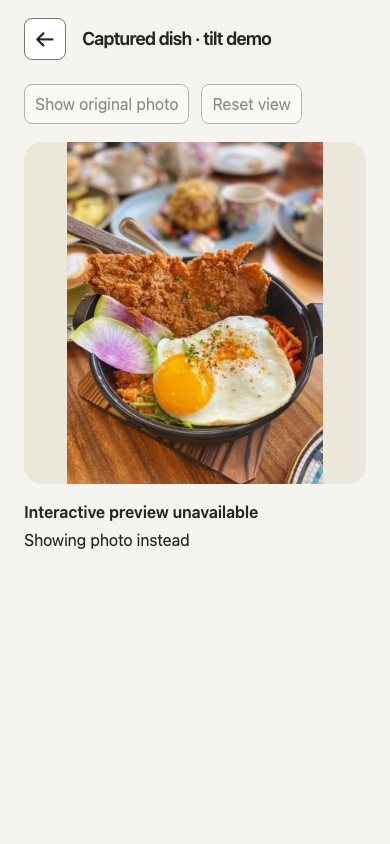
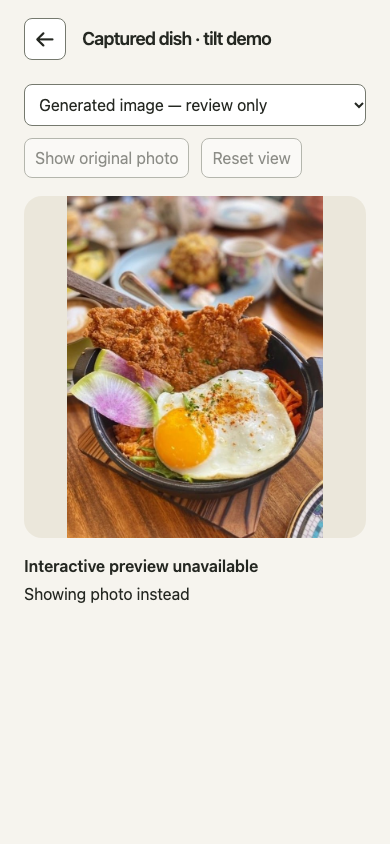
Record original-image evidence and isolate demo query

diff --git a/frontend/diner/src/menu/portionPreview.ts b/frontend/diner/src/menu/portionPreview.ts
@@ -40,7 +40,9 @@ export function bindPortionPreview(container: HTMLElement, dish: CompleteDish): 
   instructions.id = `portion-instructions-${key}`;
   let showOriginal = false;
   let visual: 'cutout' | 'generated' =
-    new URLSearchParams(location.search).get('demoVisual') === 'cutout' ? 'cutout' : 'generated';
+    import.meta.env.DEV && new URLSearchParams(location.search).get('demoVisual') === 'cutout'
+      ? 'cutout'
+      : 'generated';
   let visualSelect: HTMLSelectElement | undefined;
   const reduced = matchMedia('(prefers-reduced-motion: reduce)');
   let active = false;

diff --git a/qa-reports/diner-portion-preview/README.md b/qa-reports/diner-portion-preview/README.md
@@ -10,6 +10,21 @@ View Portion shell. Four state categories and Back/retry navigation are preserve
 | Original-photo fallback | Failed / retry |
 | ![Photo fallback](fallback.png) | ![Failed](failed.png) |
 
+## Exact original image correction
+
+The earlier demo re-encoded the cutout and omitted the generated presentation.
+The local selector now uses the exact prior PNGs, with byte hashes checked in the browser.
+Generated presentation is the default; Original cutout is selectable above the stage.
+Both remain needs-review and publication-ineligible, excluded from production builds.
+
+| Generated presentation | Original cutout |
+| --- | --- |
+| ![Generated](generated.png) | ![Cutout](cutout.png) |
+
+Latest correction checks: PASS `pnpm exec playwright test --config playwright.portion.config.ts --workers=2`
+(52/52); PASS `pnpm verify lint typecheck build`; PASS exact-asset and selector exclusion
+from production dist. The broader unit/script results below predate this asset correction.
+
 ## Implemented behavior
 
 - Warm full-width square stage, rounded corners, radial gradient and contained cutout
@@ -27,7 +42,7 @@ View Portion shell. Four state categories and Back/retry navigation are preserve
 
 ## Verification
 
-- PASS: `pnpm exec playwright test --config playwright.portion.config.ts --workers=2` —51/51 in one clean run. Includes compare/reset, exact motion/timing, original-photo failure, integrity, reduced motion, cancellation, navigation and four screenshots.
+- PASS: `pnpm exec playwright test --config playwright.portion.config.ts --workers=2` —52/52 in the latest clean run. Includes compare/reset, exact motion/timing, original-photo failure, integrity, reduced motion, cancellation, navigation and four screenshots.
 - PASS: `pnpm verify lint typecheck test build` —1,214 Vitest tests passed,4 skipped;74 script tests passed; app builds and Worker dry-run passed.
 - PASS: final `pnpm verify lint typecheck build context:check docs:check` after layout corrections.
 - PASS: `git diff --check`; production JS excludes DEV fixture host and WebGL renderer.

diff --git a/errors.md b/errors.md
@@ -2656,3 +2656,7 @@ recorded SHA-256 and dimensions. Regression: `local review renders the exact ori
 PNGs and switches without adding history` in tests/e2e/portion.spec.ts.
 The first browser run could not bind localhost under restricted permissions (EPERM);
 rerun with permission for the local test server. No application failure inferred.
+
+Verification invocation correction: `context:refresh` is a standalone pnpm script,
+not a `pnpm verify` check. The invalid combined invocation stopped before running checks;
+reran lint/typecheck/build through verify and refresh separately.

diff --git a/docs/CONTEXT.md b/docs/CONTEXT.md
@@ -210,7 +210,7 @@ The append-only `errors.md` operational ledger is deliberately outside source fi
         "contracts",
         "tokens"
       ],
[2 lines of base64/hex data omitted]
     },
     {
       "id": "console",
